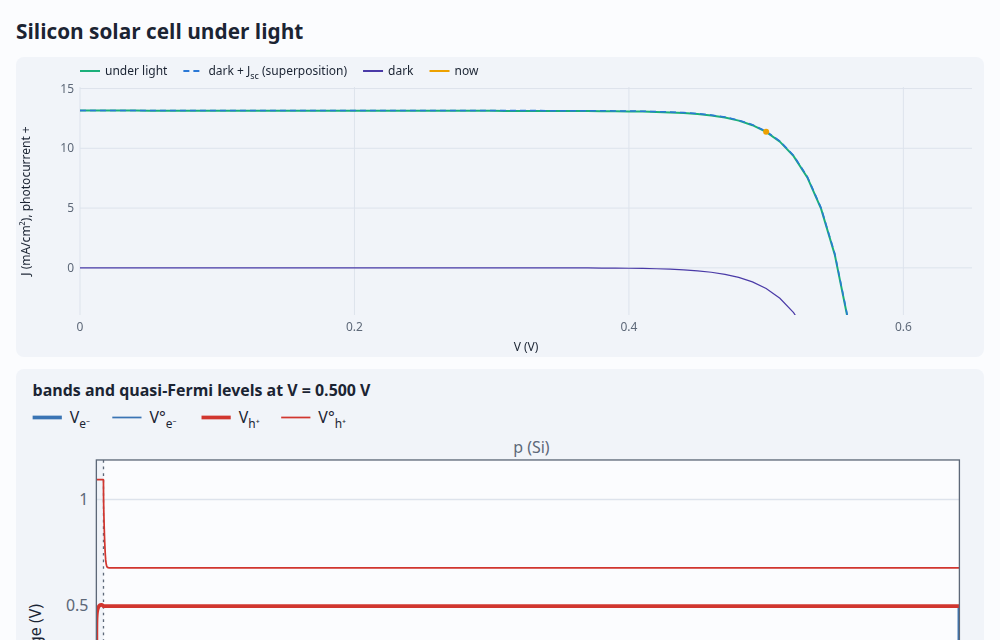
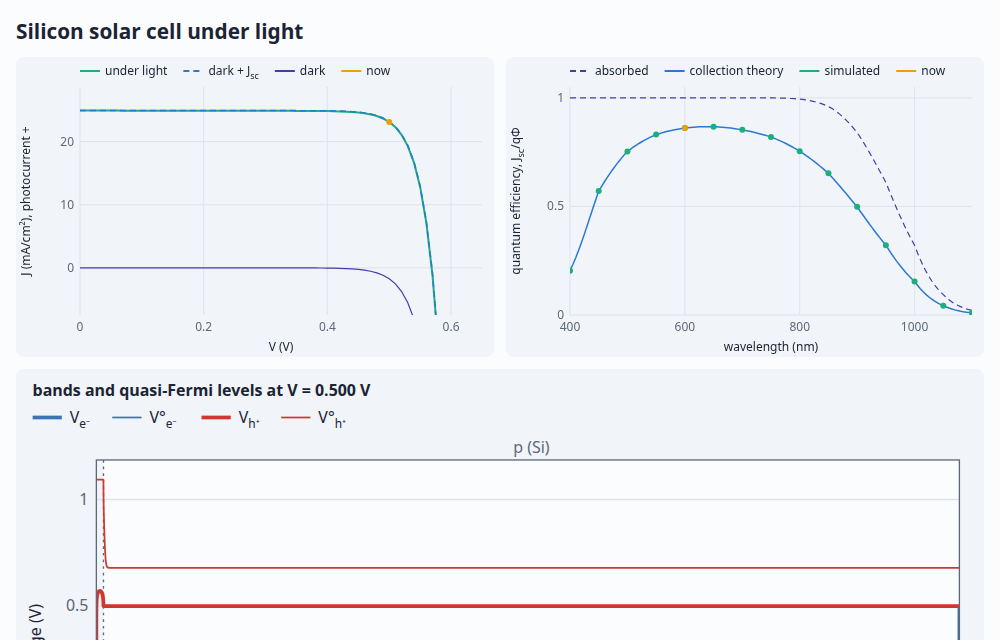
Solar demo: light absorbed as it goes in, colour by colour, with the spectral response
A wavelength control (400-1100 nm, silicon's alpha from Green 2008) drives Beer-Lambert
photogeneration, the photons' mu at their own energy. New: the external quantum efficiency,
simulated every 50 nm against collection theory (the generalised Gartner integral) and the
absorbed fraction; a panel aligned with the band diagram showing G(x) and the part collected,
G*eta; a zoom on the front 3 um, where blue light dies in the emitter. J_sc is checked against
the same theory, matching to the shown digits.

diff --git a/demos/solar.html b/demos/solar.html
@@ -11,24 +11,34 @@
 <main>
 <nav class="site"><a href="./">← all demos</a><a href="https://github.com/markblundeberg/driftlet">driftlet on GitHub</a></nav>
   <h1>Silicon solar cell under light</h1>
-  <p>A silicon solar cell, a thin n⁺ emitter on a 60 µm p base, under uniform light: its current–voltage
-    curve, with the short-circuit current and open-circuit voltage checked against textbook theory, and the
-    quasi-Fermi levels splitting under the light. Vary the bias, the light and the base's lifetime. (More about
-    the model below.)</p>
+  <p>A silicon solar cell, a thin n⁺ emitter on a 60 µm p base, lit by one colour at a time: its
+    current–voltage curve and its spectral response, both checked against textbook theory, and where the light
+    makes electron–hole pairs and the quasi-Fermi levels split. Blue light is absorbed within a fraction of a
+    micron, in the emitter; infrared goes deep into the base, or straight through. Vary the bias, the
+    wavelength, the light and the base's lifetime. (More about the model below.)</p>
   <div class="controls">
     <label>bias V <input id="V" type="range" min="0" max="0.65" step="0.005" value="0.5"><output id="Vout"></output></label>
+    <label>wavelength <input id="lambda" type="range" min="400" max="1100" step="10" value="600"><output id="lambdaOut"></output></label>
     <label>light <input id="G" type="range" min="0.1" max="3" step="0.1" value="1"><output id="Gout"></output></label>
     <label>base lifetime <input id="tau" type="range" min="-8.2" max="-4.2" step="0.25" value="-6.2"><output id="tauOut"></output></label>
+    <label><input id="zoom" type="checkbox"> zoom on the front 3 µm</label>
     <span class="readout" id="stats"></span>
   </div>
   <div class="grid">
-    <canvas class="wide" id="jv"></canvas>
+    <canvas id="jv"></canvas>
+    <canvas id="eqe"></canvas>
     <div class="levels wide" id="levels"></div>
+    <div class="levels wide" id="gen"></div>
     <div class="levels wide" id="conc"></div>
   </div>
   <h2>About this simulation</h2>
-  <p>Light is a reservoir: the reaction photon → e⁻ + h⁺, with the photons' μ far above the gap, generates
-    pairs uniformly. The band diagram uses the <a
+  <p>Light is a reservoir: the reaction photon → e⁻ + h⁺, its rate falling off as the light is absorbed
+    (Beer–Lambert), G(x) = Φα e<sup>−αx</sup>, with silicon's absorption coefficient α at each wavelength from
+    M. A. Green, <i>Sol. Energy Mater. Sol. Cells</i> <b>92</b>, 1305 (2008). The photons' μ is their energy
+    ħω, the most it can be: the reverse reaction, a pair recombining into the light, is then negligible while
+    the quasi-Fermi levels split by much less than ħω. There's no reflection; every photon enters the front,
+    and what reaches the back leaves.</p>
+  <p>The band diagram uses the <a
     href="https://github.com/markblundeberg/driftlet/blob/master/docs/visualization.md">species voltage</a>
     V<sub>i</sub> = μ̄<sub>i</sub>/(z<sub>i</sub>F): a species' electrochemical potential per unit charge, in
     volts, so electrons and ions share one axis. Each carrier moves down its own μ̄<sub>i</sub>, so its
@@ -36,102 +46,171 @@
     and holes these are the quasi-Fermi levels (thick), drawn with their standard levels V°<sub>i</sub>, the
     band edges (thin). Under light the quasi-Fermi levels split even at zero bias; at open circuit they split
     by qV<sub>oc</sub> and no current flows.</p>
-  <p>A pair made in the base is collected if its electron reaches the junction before it recombines or
-    reaches the back contact, which is a sink here (there's no back-surface field). Integrating that chance
-    over the base gives L<sub>n</sub> tanh(W<sub>b</sub>/2L<sub>n</sub>) of collecting width: about L<sub>n</sub>
-    for a short diffusion length, but never more than half the base however long it is. The readout checks
-    J<sub>sc</sub> = qG(that + the depletion layer + the emitter's share) and
-    V<sub>oc</sub> = V<sub>T</sub> ln(J<sub>sc</sub>/J₀ + 1), with J₀ from the dark curve. The dashed curve is
-    the dark curve shifted by J<sub>sc</sub>, the superposition principle.</p>
+  <p>A pair is collected if its minority carrier reaches the junction before it recombines or reaches a
+    contact, which is a sink here (no back-surface field, no front passivation). That chance η(x) is 1 in the
+    depletion layer and falls off as sinh toward each contact, over a diffusion length: L<sub>n</sub> in the
+    base, L<sub>p</sub> in the heavily doped emitter, where the lifetime is a thousand times shorter. So blue
+    light, absorbed in the emitter, is mostly lost to the front contact; red light, absorbed within a
+    diffusion length of the junction, is collected; and infrared is barely absorbed at all. The middle plot
+    draws G(x) and the part collected, G(x)η(x), whose area is J<sub>sc</sub>/q. The spectral response plots
+    J<sub>sc</sub>/qΦ, the external quantum efficiency, simulated at each colour against
+    ∫αe<sup>−αx</sup>η(x)dx, the generalisation of Gärtner's formula to this cell (from the depletion
+    approximation). The readout checks V<sub>oc</sub> = V<sub>T</sub> ln(J<sub>sc</sub>/J₀ + 1), with J₀ from
+    the dark curve, and the dashed J–V curve is the dark curve shifted by J<sub>sc</sub>, the superposition
+    principle.</p>
 </main>
 <script type="module">
 import { Device, units, EPS0, FARADAY, GAS_CONSTANT, AVOGADRO } from '../src/index.js';
-import { build, layer, ohmic, semiconductor, live } from '../src/kit.js';
+import { build, layer, ohmic, semiconductor, photogeneration, live } from '../src/kit.js';
 import { chart, colors } from './plot.js';
 import { levels, profiles, showCode, fromQuery } from './common.js';
 
-const Si = semiconductor('Si'), We = units.um(0.5), Wb = units.um(60), ND = units.perCm3(1e19), NA = units.perCm3(1e16);
-const G1 = 50; // generation at "1×" light, mol/(m³·s): 3e19 pairs per cm³ per second
-const reactions = (light, kf) => [
+const Si = semiconductor('Si'), We = units.um(0.5), Wb = units.um(60), W = We + Wb, ND = units.perCm3(1e19), NA = units.perCm3(1e16);
+const PHI1 = 3e-3; // photon flux at "1×" light, mol/(m²·s): 1.8e17 photons per cm² per second, 29 mA/cm² if all collected
+// Silicon's absorption coefficient (1/cm) at 300 K, every 50 nm from 400 nm (Green 2008); log-linear between.
+const ALPHA = [9.30e4, 2.41e4, 1.11e4, 6.39e3, 4.18e3, 2.79e3, 1.89e3, 1.31e3, 850, 534, 303, 156, 64, 16.3, 3.5];
+const alphaAt = (nm) => {
+  const t = Math.min(ALPHA.length - 1.000001, (nm - 400) / 50), k = Math.floor(t);
+  return 100 * Math.exp(Math.log(ALPHA[k]) + (t - k) * Math.log(ALPHA[k + 1] / ALPHA[k])); // 1/m
+};
+const photonEnergy = (nm) => (6.62607015e-34 * 299792458 * AVOGADRO) / (nm * 1e-9); // J/mol
+
+const reactions = (nm, light, kf) => [
   // Band-to-band recombination: τ = 1/(kf·N), so L_n = √(D τ) ≈ 48 µm in the base at kf = 1e8.
   { equation: 'e- + h+ = 0', kf: { Si: kf } },
-  // Photogeneration from a photon reservoir, at the rate kf (mol/(m³·s)).
-  { equation: 'photon = e- + h+', fixed: { photon: units.eV(3) }, kf: { Si: G1 * light } },
+  // Light absorbed as it goes in, from x = 0: kf is a profile G(x) = Φα e^{−αx}, mol/(m³·s).
+  photogeneration({ material: 'Si', flux: PHI1 * light, alpha: alphaAt(nm), mu: photonEnergy(nm), to: W }),
 ];
-const cell = (V, light, kf) =>
+const cell = (V, nm, light, kf) =>
   build({
     T: 300,
     library: [Si],
     stack: [ohmic(0), layer('Si', We, { name: 'n⁺', donors: ND }), layer('Si', Wb, { name: 'p', acceptors: NA }), ohmic(V)],
-    bulkReactions: reactions(light, kf),
+    bulkReactions: reactions(nm, light, kf),
     grid: { hmin: units.nm(1), hmax: units.um(1) },
   });
 
-const V = document.getElementById('V'), light = document.getElementById('G'), life = document.getElementById('tau');
-for (const el of [V, light, life]) fromQuery(el);
+const V = document.getElementById('V'), lambda = document.getElementById('lambda'), light = document.getElementById('G'), life = document.getElementById('tau');
+const zoom = document.getElementById('zoom');
+for (const el of [V, lambda, light, life]) fromQuery(el);
+zoom.checked = new URLSearchParams(location.search).has('zoom');
 // The slider is the base's minority lifetime τₙ = 1/(kf·N_A), on a log scale.
 const kf = () => 1 / (10 ** +life.value * NA); // m³/(mol·s)
 
-// The collecting width: the depletion layer, plus L tanh(W/2L) on each side (a sink at each contact).
+// Collection theory: the chance η(x) that a pair made at x is collected (depletion approximation).
 const { 'e-': el, 'h+': ho } = Si.materials.Si.species, VT = (GAS_CONSTANT * 300) / FARADAY;
 const ni2 = el.cRef * ho.cRef * Math.exp(-(ho.mu0 - el.mu0) / (GAS_CONSTANT * 300));
-function collecting(k) {
+function collection(k) {
   const Vbi = VT * Math.log((ND * NA) / ni2), Wd = Math.sqrt(((2 * Si.materials.Si.epsr * EPS0 * Vbi) / FARADAY) * (1 / NA + 1 / ND));
-  const xp = (Wd * ND) / (NA + ND), Ln = Math.sqrt(el.D / (k * NA)), Lp = Math.sqrt(ho.D / (k * ND));
-  return { width: Wd + Ln * Math.tanh((Wb - xp) / (2 * Ln)) + Lp * Math.tanh((We - (Wd - xp)) / (2 * Lp)), Ln };
+  const xe = We - (Wd * NA) / (NA + ND), xb = We + (Wd * ND) / (NA + ND);
+  const Ln = Math.sqrt(el.D / (k * NA)), Lp = Math.sqrt(ho.D / (k * ND));
+  const eta = (x) => (x < xe ? Math.sinh(x / Lp) / Math.sinh(xe / Lp) : x <= xb ? 1 : Math.sinh((W - x) / Ln) / Math.sinh((W - xb) / Ln));
+  // ∫αe^{−αx}η(x)dx over the cell, on points spaced geometrically from the front.
+  const xs = [0, ...Array.from({ length: 3000 }, (_, j) => 1e-10 * (W / 1e-10) ** (j / 2999))];
+  const eqe = (alpha) => xs.slice(1).reduce((a, x, j) => a + ((alpha * Math.exp(-alpha * x) * eta(x) + alpha * Math.exp(-alpha * xs[j]) * eta(xs[j])) / 2) * (x - xs[j]), 0);
+  return { Ln, Lp, eta, eqe };
 }
 
 // The J–V curves for the present light and lifetime, dark and lit: plain Devices swept in bias,
 // warm from point to point. The photocurrent flows toward +x (holes to the p side), so power out is V·J.
-const curve = (G) => {
-  const dev = new Device(cell(0, G, kf())), J = [];
+const curve = (nm, light) => {
+  const dev = new Device(cell(0, nm, light, kf())), J = [];
   for (let v = 0; v <= 0.651; v += 0.01) {
     dev.set({ contacts: { right: { V: v } } });
     J.push(dev.solve().current / 10); // mA/cm²
   }
   return J;
 };
-let jv;
+let jv, dark, spectrum;
 function sweep() {
-  const dark = curve(0), lit = curve(+light.value);
-  const oc = new Device(cell({ I: 0 }, +light.value, kf())).solve(); // open circuit: the terminal floats
+  const nm = +lambda.value;
+  const lit = curve(nm, +light.value);
+  const oc = new Device(cell({ I: 0 }, nm, +light.value, kf())).solve(); // open circuit: the terminal floats
   const Jsc = lit[0], Voc = oc.terminals.right.V, vs = dark.map((_, k) => k * 0.01);
   const Pmax = Math.max(...vs.map((v, k) => v * lit[k]));
   const J0 = -dark[30] / (Math.exp(0.3 / VT) - 1); // from the dark curve at 0.3 V
-  const theory = (FARADAY * G1 * +light.value * collecting(kf()).width) / 10;
+  const theory = (FARADAY * PHI1 * +light.value * collection(kf()).eqe(alphaAt(nm))) / 10;
   jv = {
-    V: vs, dark, lit, Jsc,
+    V: vs, lit, Jsc,
     stats: `J_sc = ${Jsc.toFixed(2)} mA/cm² (collection theory ${theory.toFixed(2)}) · V_oc = ${Voc.toFixed(3)} V (V_T ln(J_sc/J₀ + 1) = ${(VT * Math.log(Jsc / J0 + 1)).toFixed(3)}) · FF = ${(Pmax / (Jsc * Voc)).toFixed(3)} · P_max = ${Pmax.toFixed(2)} mW/cm²`,
   };
 }
+// The spectral response at short circuit, every 50 nm, against theory every 5 nm.
+function spectral() {
+  const { eqe } = collection(kf());
+  const nms = Array.from({ length: 15 }, (_, k) => 400 + 50 * k), fine = Array.from({ length: 141 }, (_, k) => 400 + 5 * k);
+  spectrum = {
+    nm: nms,
+    sim: nms.map((nm) => new Device(cell(0, nm, 1, kf())).solve().current / (FARADAY * PHI1)),
+    fine,
+    theory: fine.map((nm) => eqe(alphaAt(nm))),
+    absorbed: fine.map((nm) => -Math.expm1(-alphaAt(nm) * W)),
+  };
+}
+const recompute = () => {
+  dark = curve(400, 0);
+  spectral();
+  sweep();
+};
 
-const dev = live(cell(+V.value, +light.value, kf()), { onsolution: draw });
-const update = () => dev.set({ contacts: { right: { V: +V.value } }, bulkReactions: reactions(+light.value, kf()) });
+recompute();
+const dev = live(cell(+V.value, +lambda.value, +light.value, kf()), { onsolution: draw });
+const update = () => dev.set({ contacts: { right: { V: +V.value } }, bulkReactions: reactions(+lambda.value, +light.value, kf()) });
 V.addEventListener('input', update);
-for (const el of [light, life])
+for (const el of [lambda, light])
   el.addEventListener('change', () => {
     sweep();
     update();
   });
-sweep();
+life.addEventListener('change', () => {
+  recompute();
+  update();
+});
+zoom.addEventListener('change', () => draw(last));
 
+// A wavelength's colour, roughly, for the readout.
+const hue = (nm) => (nm < 440 ? 270 : nm < 490 ? 270 - ((nm - 440) * 90) / 50 : nm < 580 ? 180 - ((nm - 490) * 120) / 90 : nm < 645 ? 60 - ((nm - 580) * 60) / 65 : 0);
+let last;
 function draw(sol) {
-  const v = sol.terminals.right.V, tau = 1 / (kf() * NA);
+  last = sol;
+  const v = sol.terminals.right.V, tau = 1 / (kf() * NA), nm = +lambda.value, alpha = alphaAt(nm);
+  const { Ln, eta } = collection(kf());
   document.getElementById('Vout').textContent = `${v.toFixed(3)} V`;
+  const depth = 1 / alpha;
+  document.getElementById('lambdaOut').innerHTML =
+    `<span style="display:inline-block;width:0.8em;height:0.8em;border-radius:50%;vertical-align:-0.05em;background:${nm > 700 ? '#555' : `hsl(${hue(nm)} 90% 50%)`}"></span> ${nm} nm, 1/α = ${depth < 1e-6 ? `${(depth * 1e9).toFixed(0)} nm` : depth < 1e-3 ? `${+(depth * 1e6).toPrecision(2)} µm` : `${+(depth * 1e3).toPrecision(2)} mm`}`;
   document.getElementById('Gout').textContent = `${(+light.value).toFixed(1)}×`;
-  document.getElementById('tauOut').textContent = `τₙ ${tau < 1e-6 ? `${+(tau * 1e9).toPrecision(2)} ns` : `${+(tau * 1e6).toPrecision(2)} µs`}, Lₙ ${+(collecting(kf()).Ln * 1e6).toPrecision(2)} µm`;
+  document.getElementById('tauOut').textContent = `τₙ ${tau < 1e-6 ? `${+(tau * 1e9).toPrecision(2)} ns` : `${+(tau * 1e6).toPrecision(2)} µs`}, Lₙ ${+(Ln * 1e6).toPrecision(2)} µm`;
   document.getElementById('stats').textContent = jv.stats;
   chart(document.getElementById('jv'), {
     xlabel: 'V (V)', ylabel: 'J (mA/cm²), photocurrent +', ylim: [-0.3 * jv.Jsc, 1.15 * jv.Jsc],
     series: [
       { x: jv.V, y: jv.lit, color: colors[2], label: 'under light' },
-      { x: jv.V, y: jv.dark.map((j) => j + jv.Jsc), color: colors[0], dash: [6, 4], width: 1.5, label: 'dark + J_sc (superposition)' },
-      { x: jv.V, y: jv.dark, color: colors[6], width: 1.2, label: 'dark' },
+      { x: jv.V, y: dark.map((j) => j + jv.Jsc), color: colors[0], dash: [6, 4], width: 1.5, label: 'dark + J_sc' },
+      { x: jv.V, y: dark, color: colors[6], width: 1.2, label: 'dark' },
       { x: [v], y: [sol.current / 10], color: colors[3], marker: true, width: 0, label: 'now' },
     ],
   });
-  levels(document.getElementById('levels'), sol, { title: `bands and quasi-Fermi levels at V = ${v.toFixed(3)} V` });
-  profiles(document.getElementById('conc'), sol, { species: ['e-', 'h+'], title: 'carrier densities', ylabel: 'density (cm⁻³)', scale: AVOGADRO * 1e-6, log: true });
+  const at = spectrum.nm.indexOf(nm);
+  chart(document.getElementById('eqe'), {
+    xlabel: 'wavelength (nm)', ylabel: 'quantum efficiency, J_sc/qΦ', xlim: [400, 1100], ylim: [0, 1.05],
+    series: [
+      { x: spectrum.fine, y: spectrum.absorbed, color: colors[6], dash: [6, 4], width: 1.2, label: 'absorbed' },
+      { x: spectrum.fine, y: spectrum.theory, color: colors[0], width: 1.5, label: 'collection theory' },
+      { x: spectrum.nm, y: spectrum.sim, color: colors[2], marker: true, width: 0, label: 'simulated' },
+      { x: [nm], y: [jv.Jsc * 10 / (FARADAY * PHI1 * +light.value)], color: colors[3], marker: true, width: 0, label: 'now' },
+    ],
+  });
+  const xlim = zoom.checked ? [0, units.um(3)] : undefined;
+  levels(document.getElementById('levels'), sol, { xlim, title: `bands and quasi-Fermi levels at V = ${v.toFixed(3)} V` });
+  // Generation where the light is absorbed, and the part of it collected, in cm⁻³s⁻¹.
+  const G = sol.x.map((x) => PHI1 * +light.value * alpha * Math.exp(-alpha * x));
+  profiles(document.getElementById('gen'), sol, {
+    species: [{ c: G, label: 'G, pairs made', kind: 'standard' }, { c: G.map((g, k) => g * eta(sol.x[k])), label: 'Gη, collected (theory)', role: 'redox' }],
+    title: `where the light makes pairs, and which are collected, at ${nm} nm`, ylabel: 'rate (cm⁻³s⁻¹)', scale: AVOGADRO * 1e-6, log: true, xlim,
+    range: [Math.floor(Math.log10(G[0] * AVOGADRO * 1e-6)) - 5, Math.ceil(Math.log10(G[0] * AVOGADRO * 1e-6)) + 0.3],
+  });
+  profiles(document.getElementById('conc'), sol, { species: ['e-', 'h+'], title: 'carrier densities', ylabel: 'density (cm⁻³)', scale: AVOGADRO * 1e-6, log: true, xlim });
 }
 showCode();
 </script>

diff --git a/demos/common.js b/demos/common.js
@@ -27,12 +27,13 @@ export function levels(el, sol, opts = {}) {
 // Concentration profiles drawn like the level diagrams (same layout, x axis and species colours),
 // so they line up beneath them: levelChart() takes any lines as traces. Each entry of `species` is
 // a name, or { name, c, label, kind } to draw some other profile in that species' colour (kind
-// 'standard' draws it thin). `scale` converts units; `log` draws log₁₀, with powers of ten.
+// 'standard' draws it thin), or { c, label, kind, role } for a profile of no species (role
+// 'redox', or none for muted). `scale` converts units; `log` draws log₁₀, with powers of ten.
 export function profiles(el, sol, { species, title, ylabel = 'concentration (mol/m³)', range, xlim, scale = 1, log = false, labels = {}, height = 300 }) {
   const f = log ? (c) => (c > 0 ? Math.log10(c * scale) : NaN) : (c) => c * scale;
   const series = species.map((entry) => {
-    const { name, c = sol.c[name], label = labels[name] ?? `c_{${typeset(name, sol.species.find((sp) => sp.name === name).z)}}`, kind = 'level' } = typeof entry === 'string' ? { name: entry } : entry;
-    return { id: `c:${name}:${label}`, label, kind, ...speciesRole(sol, name), y: Array.from(c, f) };
+    const { name, c = sol.c[name], label = labels[name] ?? `c_{${typeset(name, sol.species.find((sp) => sp.name === name).z)}}`, kind = 'level', role } = typeof entry === 'string' ? { name: entry } : entry;
+    return { id: `c:${name}:${label}`, label, kind, ...(name === undefined ? { role, slot: 0 } : speciesRole(sol, name)), y: Array.from(c, f) };
   });
   if (!range) {
     const [xs, xe] = xlim ?? [sol.x[0], sol.x.at(-1)];

diff --git a/demos/index.html b/demos/index.html
@@ -20,7 +20,7 @@
   <h2>Semiconductors</h2>
   <div class="cards">
     <a class="card" href="pn.html"><img src="screenshots/pn.png" alt="pn junction level diagram"><div><b>pn junction</b><span>Quasi-Fermi levels and band edges under bias; the I–V curve against Shockley, short diode to long.</span></div></a>
-    <a class="card" href="solar.html"><img src="screenshots/solar.png" alt="solar cell"><div><b>Solar cell</b><span>Photogeneration from a photon reservoir: J–V, V<sub>oc</sub> and J<sub>sc</sub> against collection theory, the split quasi-Fermi levels.</span></div></a>
+    <a class="card" href="solar.html"><img src="screenshots/solar.png" alt="solar cell"><div><b>Solar cell</b><span>Light absorbed as it goes in, colour by colour: J–V and the spectral response against collection theory, blue lost in the emitter, the split quasi-Fermi levels.</span></div></a>
     <a class="card" href="mos.html"><img src="screenshots/mos.png" alt="MOS capacitor"><div><b>MOS capacitor</b><span>Accumulation, depletion and inversion under a metal gate; the C–V curve against ideal theory, V<sub>FB</sub> and V<sub>th</sub>.</span></div></a>
   </div>
 
